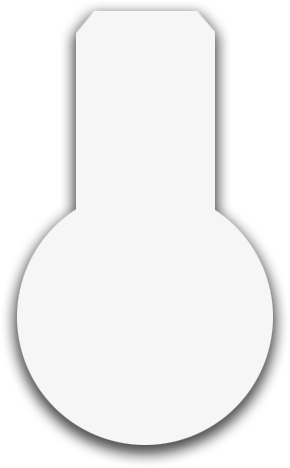
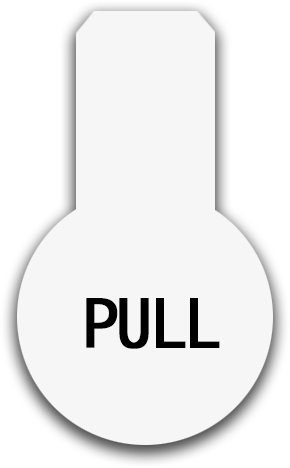
change pin image

Changed region(s): [[0.2793, 0.6282, 0.7759, 0.7479]]

diff --git a/shama-project/src/components/style.scss b/shama-project/src/components/style.scss
@@ -24,6 +24,9 @@ body{
     background: #000 url(./../img/bg.png) no-repeat;
     background-size:cover;
     text-align: center;
+    @supports (-webkit-appearance:none) and (stroke-color: transparent) {
+        min-height: -webkit-fill-available;
+    }
     &:before{
         content: '';
         display: inline-block;
@@ -65,22 +68,11 @@ body{
         left: 42%;
         right: 42%;
         top: 89%;
-        bottom: 0;
+        bottom: -9%;
         margin: 0 auto;
         background: url(./../img/pin.png) no-repeat 0 0;
         background-size: 100% auto;
-        aspect-ratio: 145 / 234;
         user-select: none;
-        .text{
-            position: absolute;
-            bottom: 21%;
-            left: 0;
-            right: 0;
-            font-size: 1.3rem;
-            line-height: 1.5rem;
-            font-weight: 600;
-            cursor: pointer;
-        }
     }
 }
 
@@ -97,15 +89,14 @@ body{
         top: 7%;
         left: 21%;
         width: 14%;
-        aspect-ratio: 1 / 1;
-        height: auto;
+        bottom: 34%;
         background: url(../img/btn1.png) no-repeat 0 0; 
         background-size: 100%;
         -webkit-tap-highlight-color : transparent;
         &.action{
             left: 42.7%;
             top: 28%;
-            aspect-ratio: 243 / 244;
+            bottom: 13%;
             background: url(../img/btn2.png) no-repeat 0 0; 
             background-size: 100%;
             &:active{
@@ -132,13 +123,4 @@ body{
 }
 
 @media (max-width: 767px){
-}
-
-@media (max-width: 360px){
-    .pin{
-        .text{
-            font-size: 14px;
-            bottom: 15%;
-        }
-    }
 }

diff --git a/shama-project/src/components/Main.js b/shama-project/src/components/Main.js
@@ -30,7 +30,7 @@ const Main = () => {
                         <button type="button" className="right"><span className="vh">right</span></button>
                     </div>
                     <Draggable axis="y" onDrag={(e, data) => trackPos(data)} bounds={{top:0,bottom:20}}>
-                        <button type="button" className="pin" onClick={ToggleClass}><span className="text">PULL</span></button>
+                        <button type="button" className="pin" onClick={ToggleClass}><span className='vh'>pull</span></button>
                     </Draggable>
                 </div>
             </div>
